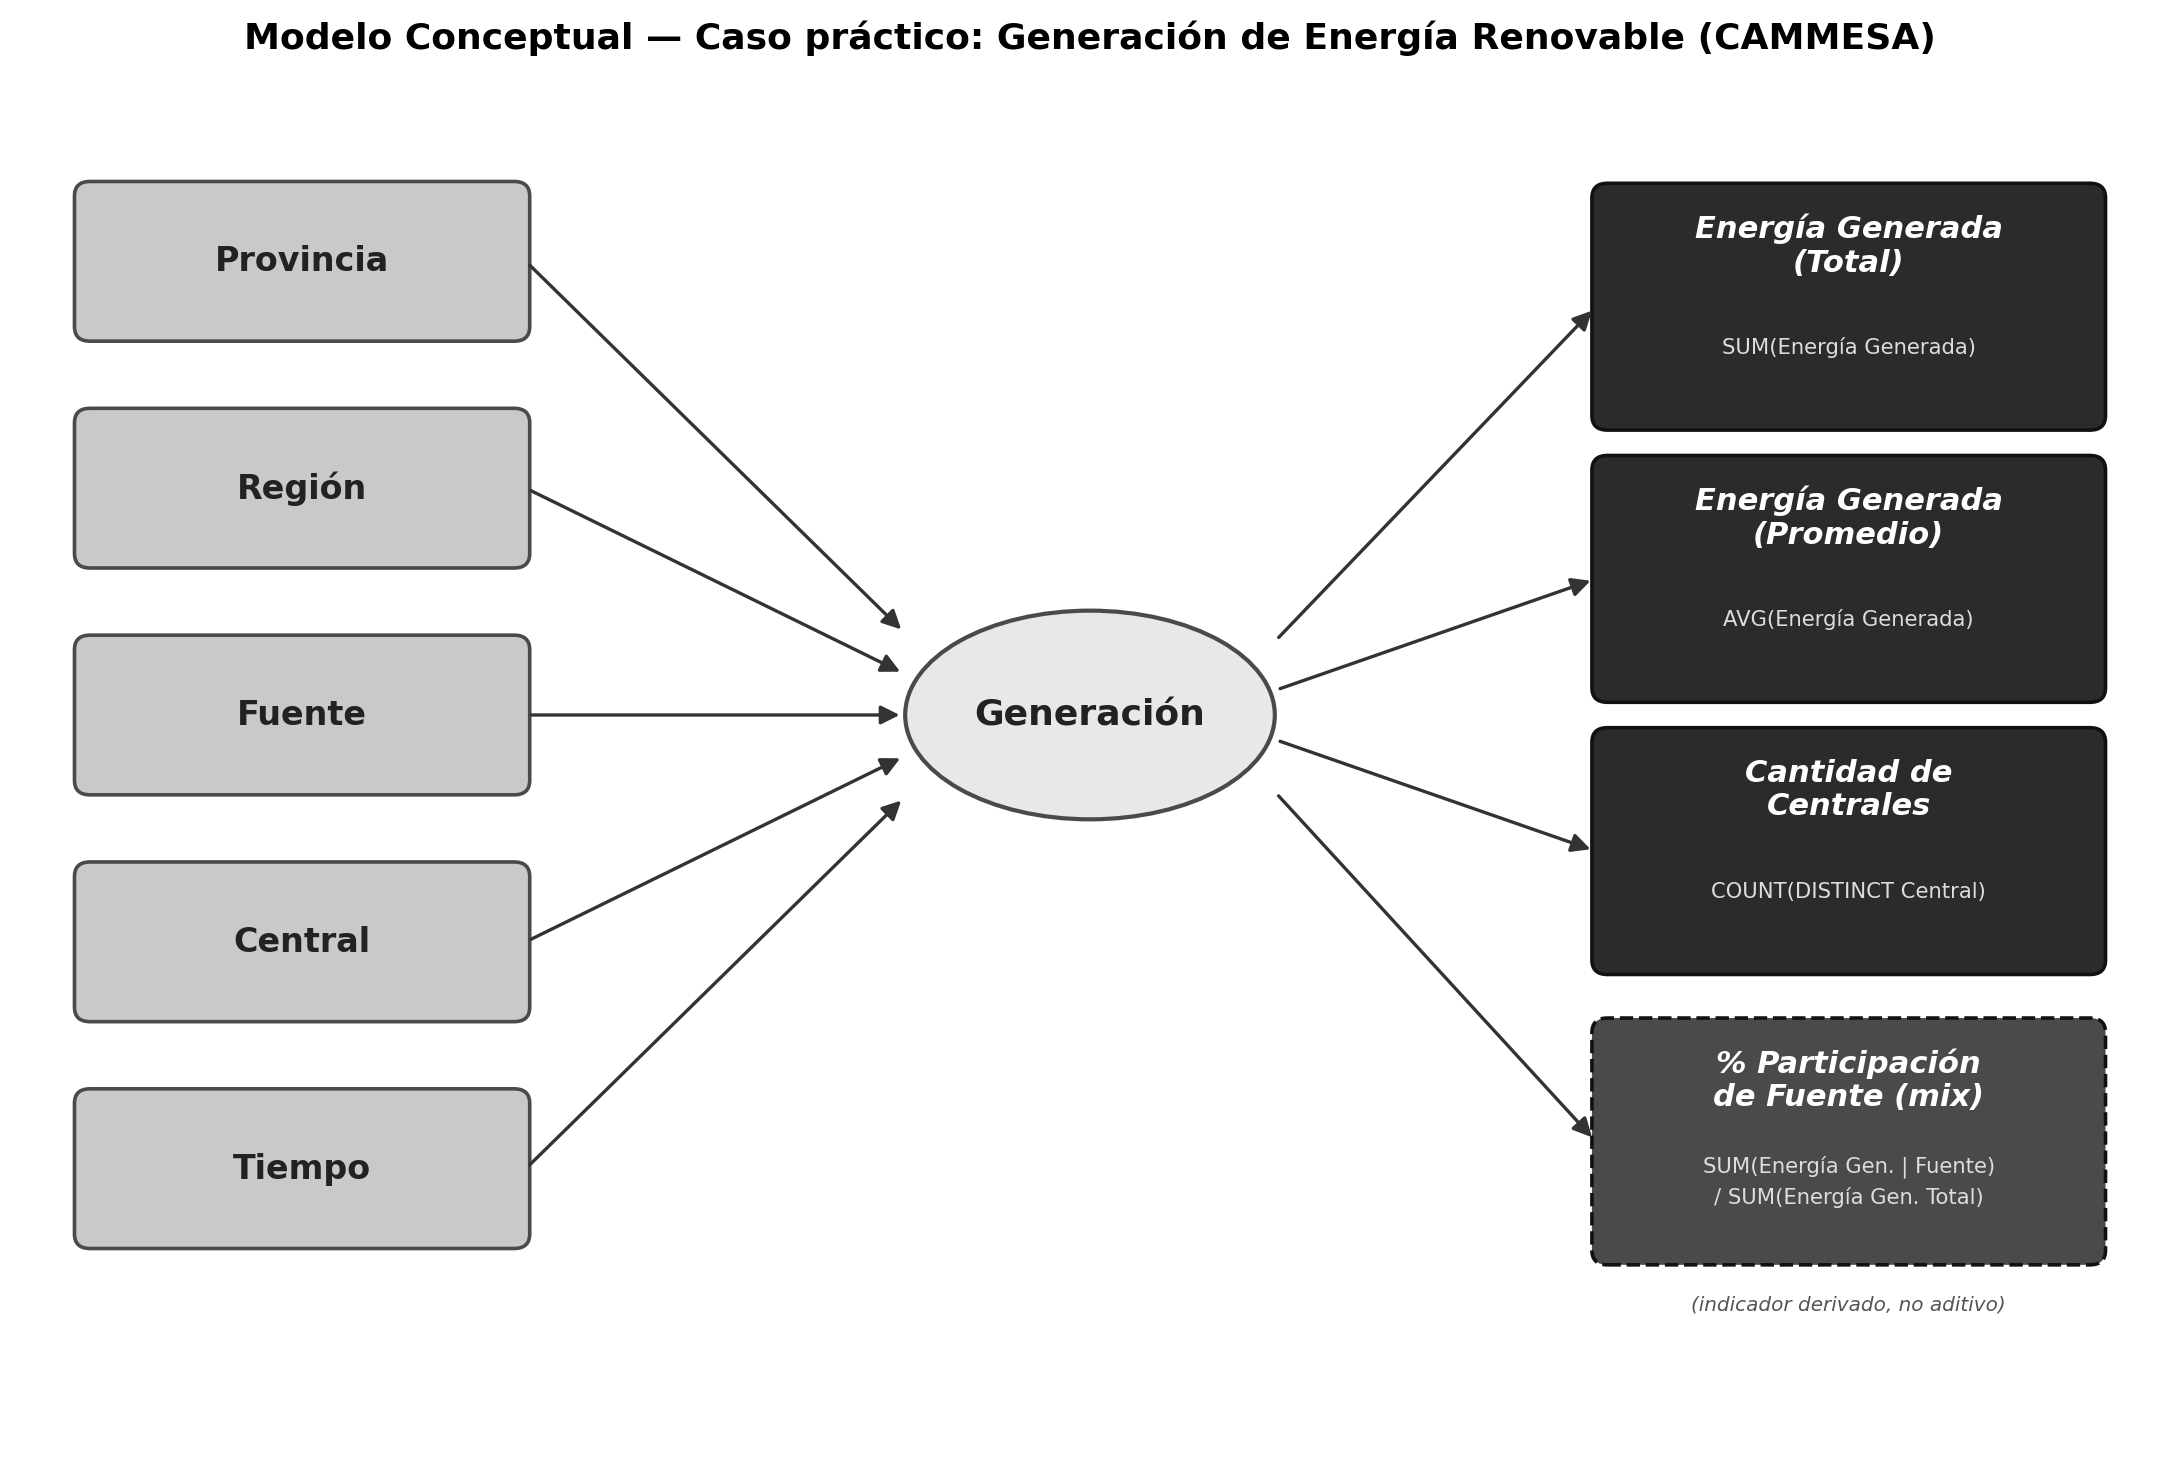
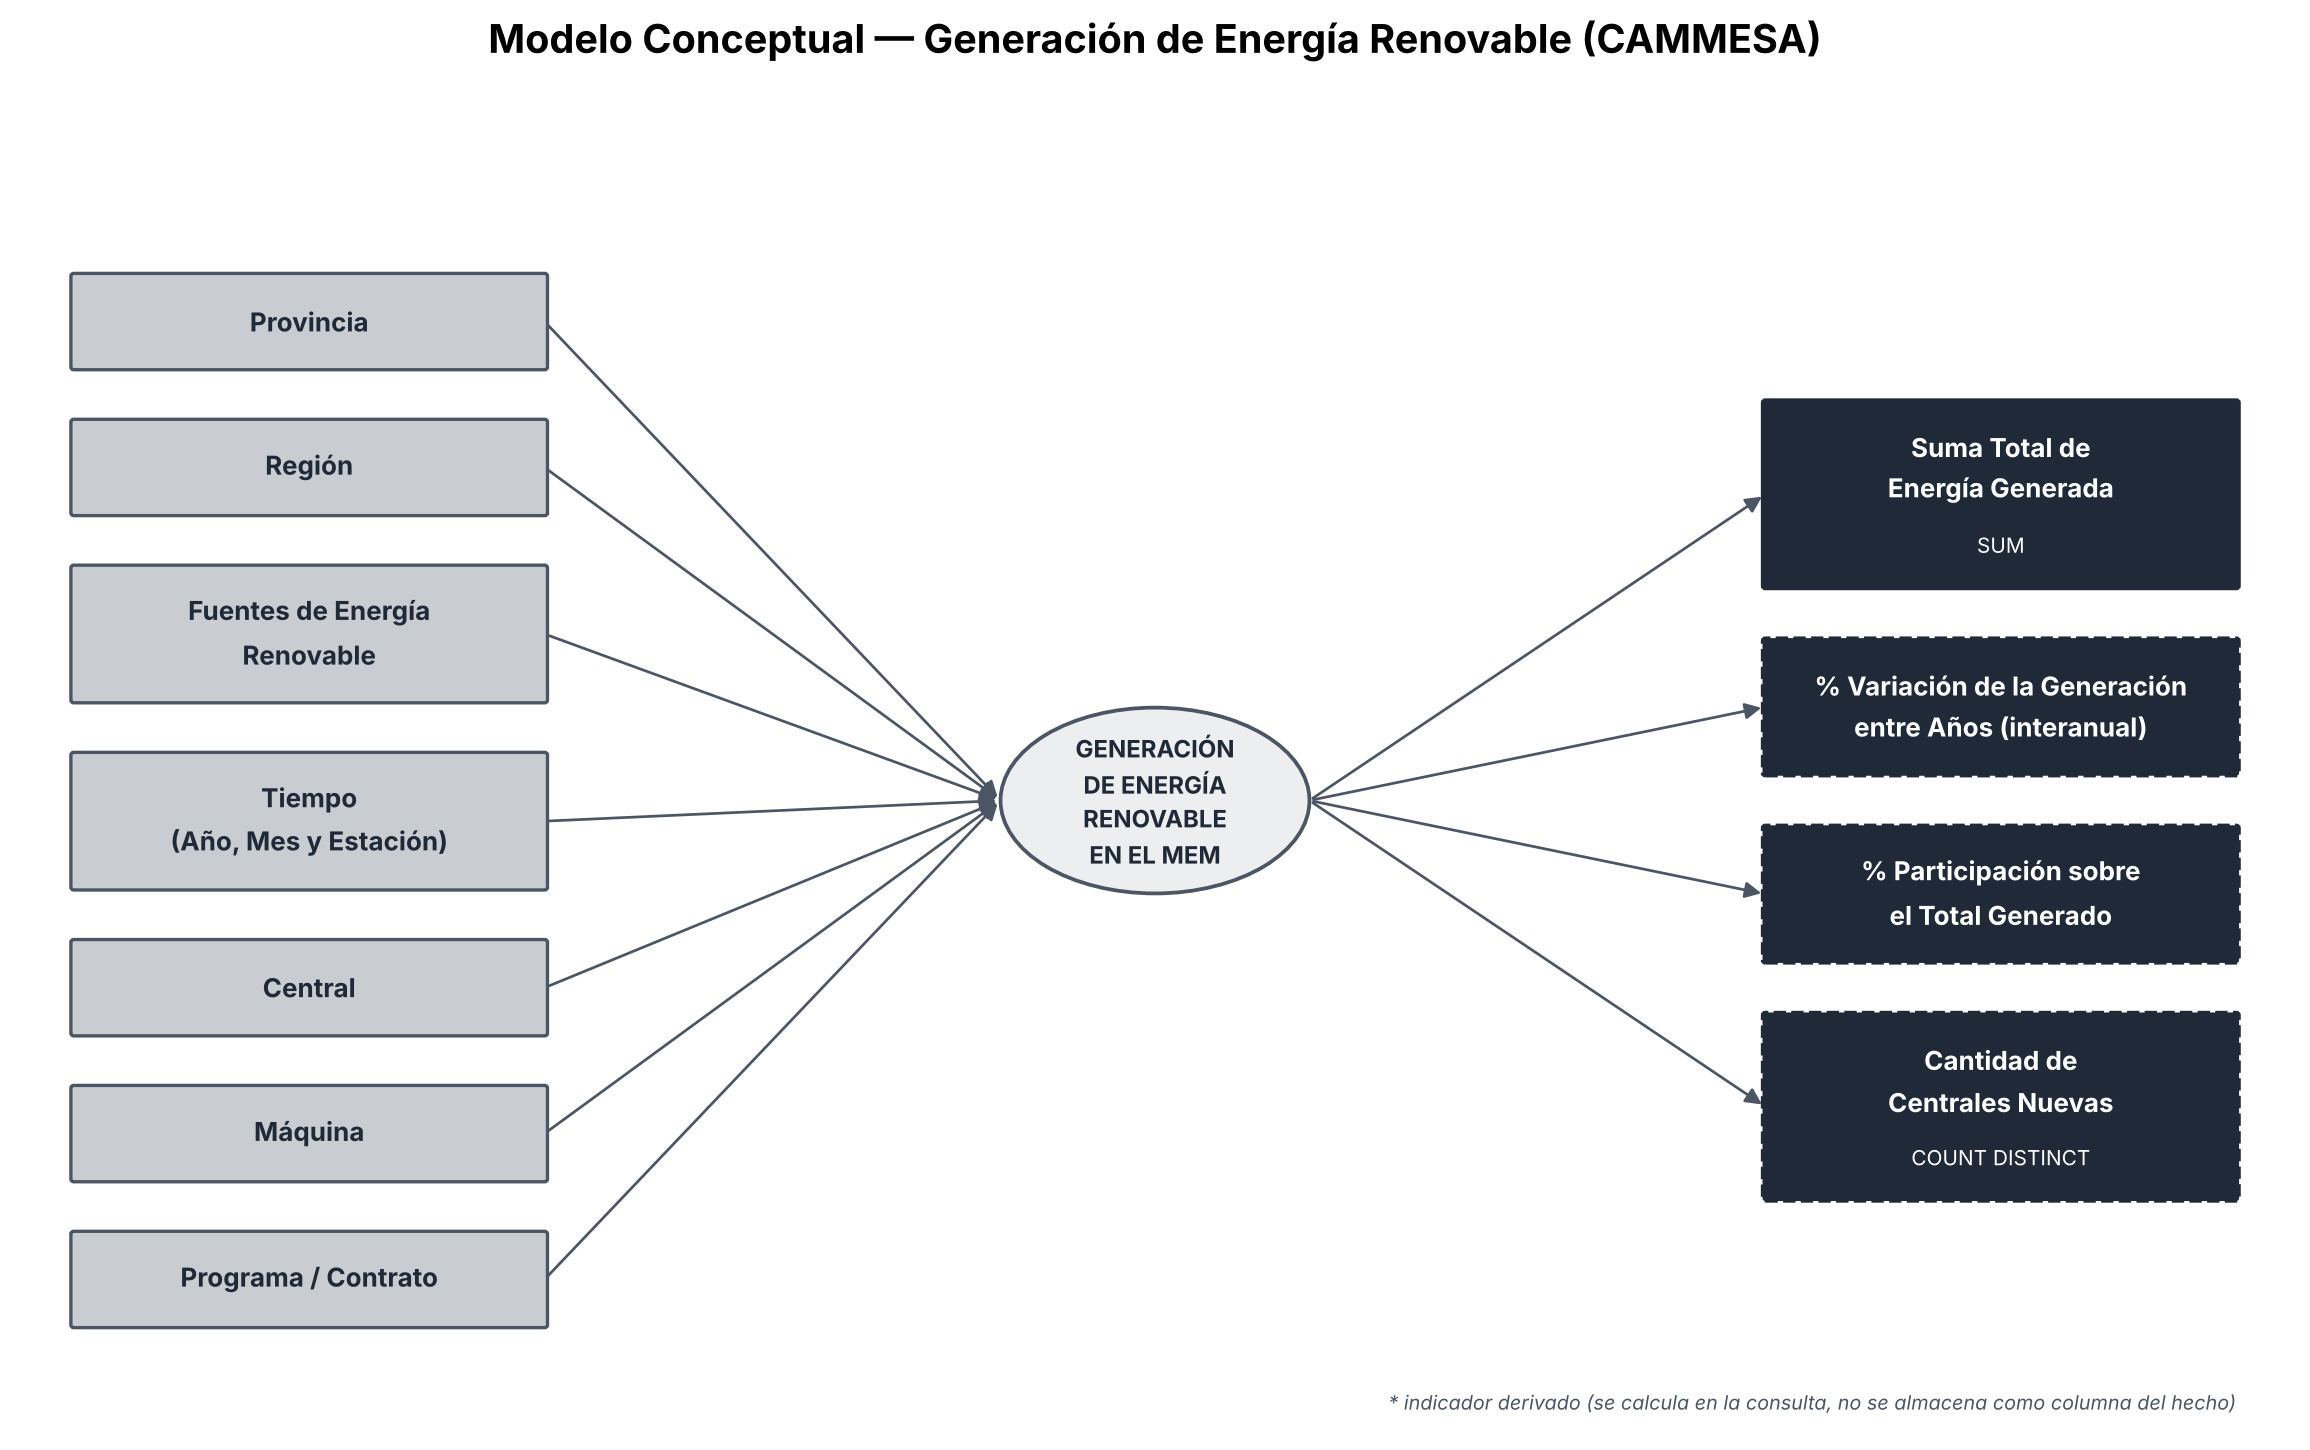
tercer commit

diff --git a/generate_diagrams.py b/generate_diagrams.py
@@ -1,0 +1,185 @@
+# -*- coding: utf-8 -*-
+"""Regenera los dos diagramas de modelo conceptual (Paso 1 y Paso 2) con el
+contenido corregido: 7 perspectivas (sin "Habitantes") y los 4 indicadores
+vigentes (sin Promedio, sin % Participación renovable s/Demanda, sin
+Cantidad Total de Centrales; con Cantidad de Centrales Nuevas).
+Cada caja calcula su propia altura según la cantidad de líneas de texto
+que tiene, para que el título y la fórmula/función no se superpongan."""
+import matplotlib.pyplot as plt
+from matplotlib.patches import FancyBboxPatch, Ellipse, FancyArrowPatch
+
+PERSPECTIVAS = [
+    ("Provincia", None),
+    ("Región", None),
+    ("Fuentes de Energía\nRenovable", None),
+    ("Tiempo\n(Año, Mes y Estación)", None),
+    ("Central", None),
+    ("Máquina", None),
+    ("Programa / Contrato", None),
+]
+
+PERSPECTIVAS_COLS = [
+    ("Provincia", "PROVINCIA"),
+    ("Región", "REGIÓN"),
+    ("Fuentes de Energía\nRenovable", "FUENTE DE ENERGÍA"),
+    ("Tiempo\n(Año, Mes y Estación)", "AÑO, MES\n(estación derivada de MES)"),
+    ("Central", "CENTRAL,\nCENTRAL DESCRIPCIÓN"),
+    ("Máquina", "MAQUINA"),
+    ("Programa / Contrato", "Nueva Generación"),
+]
+
+INDICADORES_SIMPLE = [
+    ("Suma Total de\nEnergía Generada", "SUM", False),
+    ("% Variación de la Generación\nentre Años (interanual)", "", True),
+    ("% Participación sobre\nel Total Generado", "", True),
+    ("Cantidad de\nCentrales Nuevas", "COUNT DISTINCT", True),
+]
+
+INDICADORES_FORMULA = [
+    ("Suma Total de\nEnergía Generada", "SUM(ENERGÍA GENERADA [GWh])", False),
+    ("% Variación de la Generación\nentre Años (interanual)",
+     "(SUM año B − SUM año A)\n/ SUM año A × 100", True),
+    ("% Participación sobre\nel Total Generado",
+     "SUM(grupo) / SUM(total\nde referencia) × 100", True),
+    ("Cantidad de\nCentrales Nuevas",
+     "COUNT(DISTINCT CENTRAL) cuyo\nprimer año con ENERGÍA > 0\nes el año analizado", True),
+]
+
+GRIS_CLARO = "#C9CDD2"
+GRIS_BORDE = "#4B5563"
+OSCURO = "#1F2937"
+BLANCO = "#FFFFFF"
+
+TITLE_LINE_H = 0.30
+SUB_LINE_H = 0.23
+PAD_TOP = 0.18
+PAD_BOTTOM = 0.18
+GAP_MID = 0.14
+GAP_BOXES = 0.40
+
+
+def box_height(title, subtext):
+    title_lines = title.count("\n") + 1
+    h = PAD_TOP + title_lines * TITLE_LINE_H + PAD_BOTTOM
+    if subtext:
+        sub_lines = subtext.count("\n") + 1
+        h += GAP_MID + sub_lines * SUB_LINE_H
+    return h
+
+
+def draw_box(ax, x, y, w, h, title, subtext, facecolor, edgecolor, textcolor,
+             fontsize=12.5, subfontsize=10, dashed=False):
+    style = "round,pad=0.02,rounding_size=0.02"
+    box = FancyBboxPatch((x, y), w, h, boxstyle=style, linewidth=1.6,
+                          facecolor=facecolor, edgecolor=edgecolor,
+                          linestyle="dashed" if dashed else "solid")
+    ax.add_patch(box)
+
+    title_lines = title.count("\n") + 1
+    title_block_h = title_lines * TITLE_LINE_H
+    title_center_y = y + h - PAD_TOP - title_block_h / 2
+    ax.text(x + w / 2, title_center_y, title, ha="center", va="center",
+            fontsize=fontsize, fontweight="bold", color=textcolor, linespacing=1.35)
+
+    if subtext:
+        sub_lines = subtext.count("\n") + 1
+        sub_block_h = sub_lines * SUB_LINE_H
+        sub_top = y + h - PAD_TOP - title_block_h - GAP_MID
+        sub_center_y = sub_top - sub_block_h / 2
+        ax.text(x + w / 2, sub_center_y, subtext, ha="center", va="center",
+                fontsize=subfontsize, color=textcolor, linespacing=1.35)
+
+
+def draw_diagram(perspectivas, indicadores, title, out_path, total_w=16.5, box_w=3.5):
+    persp_heights = [box_height(t, s) for t, s in perspectivas]
+    ind_heights = [box_height(t, (s if s else None)) for t, s, _ in indicadores]
+
+    persp_total = sum(persp_heights) + GAP_BOXES * (len(persp_heights) - 1)
+    ind_total = sum(ind_heights) + GAP_BOXES * (len(ind_heights) - 1)
+
+    top_margin, bottom_margin, title_margin = 0.5, 0.55, 1.1
+    fig_h = max(persp_total, ind_total) + top_margin + bottom_margin + title_margin
+
+    fig, ax = plt.subplots(figsize=(total_w, fig_h))
+    ax.set_xlim(0, total_w)
+    ax.set_ylim(0, fig_h)
+    ax.axis("off")
+    ax.set_title(title, fontsize=19, fontweight="bold", pad=18, loc="center")
+
+    left_x = 0.4
+    right_x = total_w - 0.4 - box_w
+    center_x = total_w / 2
+
+    content_top = fig_h - title_margin
+    content_bottom = bottom_margin
+
+    # Perspectivas (izquierda) — centradas verticalmente en el área de contenido
+    persp_start_y = content_bottom + (content_top - content_bottom - persp_total) / 2
+    y = persp_start_y + persp_total
+    persp_centers = []
+    for (t, s), h in zip(perspectivas, persp_heights):
+        y -= h
+        draw_box(ax, left_x, y, box_w, h, t, s, GRIS_CLARO, GRIS_BORDE, OSCURO)
+        persp_centers.append((left_x + box_w, y + h / 2))
+        y -= GAP_BOXES
+
+    # Indicadores (derecha)
+    ind_start_y = content_bottom + (content_top - content_bottom - ind_total) / 2
+    y = ind_start_y + ind_total
+    ind_centers = []
+    for (t, s, derivado), h in zip(indicadores, ind_heights):
+        y -= h
+        draw_box(ax, right_x, y, box_w, h, t, s if s else None, OSCURO, OSCURO, BLANCO,
+                  dashed=derivado)
+        ind_centers.append((right_x, y + h / 2))
+        y -= GAP_BOXES
+
+    # Óvalo central
+    center_y = (content_top + content_bottom) / 2
+    oval_w, oval_h = 2.1, 1.35
+    oval = Ellipse((center_x, center_y), oval_w, oval_h, facecolor="#EDEEF0",
+                    edgecolor=GRIS_BORDE, linewidth=1.8)
+    ax.add_patch(oval)
+    ax.text(center_x, center_y, "GENERACIÓN\nDE ENERGÍA\nRENOVABLE\nEN EL MEM",
+            ha="center", va="center", fontsize=11.5, fontweight="bold", color=OSCURO,
+            linespacing=1.25)
+
+    oval_left = center_x - oval_w / 2
+    oval_right = center_x + oval_w / 2
+
+    for (px, py) in persp_centers:
+        ax.add_patch(FancyArrowPatch((px, py), (oval_left, center_y),
+                                      arrowstyle="-|>", mutation_scale=16,
+                                      color=GRIS_BORDE, linewidth=1.3,
+                                      connectionstyle="arc3,rad=0.0"))
+    for (ix, iy) in ind_centers:
+        ax.add_patch(FancyArrowPatch((oval_right, center_y), (ix, iy),
+                                      arrowstyle="-|>", mutation_scale=16,
+                                      color=GRIS_BORDE, linewidth=1.3,
+                                      connectionstyle="arc3,rad=0.0"))
+
+    ax.text(total_w - 0.4, 0.15,
+            "* indicador derivado (se calcula en la consulta, no se almacena como columna del hecho)",
+            ha="right", va="bottom", fontsize=9.5, style="italic", color="#4B5563")
+
+    fig.tight_layout()
+    fig.savefig(out_path, dpi=150, facecolor="white", bbox_inches="tight")
+    plt.close(fig)
+    print(f"Guardado: {out_path}")
+
+
+draw_diagram(
+    PERSPECTIVAS,
+    [(t, s, d) for t, s, d in INDICADORES_SIMPLE],
+    "Modelo Conceptual — Generación de Energía Renovable (CAMMESA)",
+    "modelo_conceptual_hefesto.png",
+    total_w=15.5, box_w=3.2,
+)
+
+draw_diagram(
+    PERSPECTIVAS_COLS,
+    INDICADORES_FORMULA,
+    "Modelo Conceptual Ampliado — Generación de Energía Renovable (CAMMESA)",
+    "modelo_conceptual_hefesto_v2.png",
+    total_w=17.5, box_w=3.9,
+)
